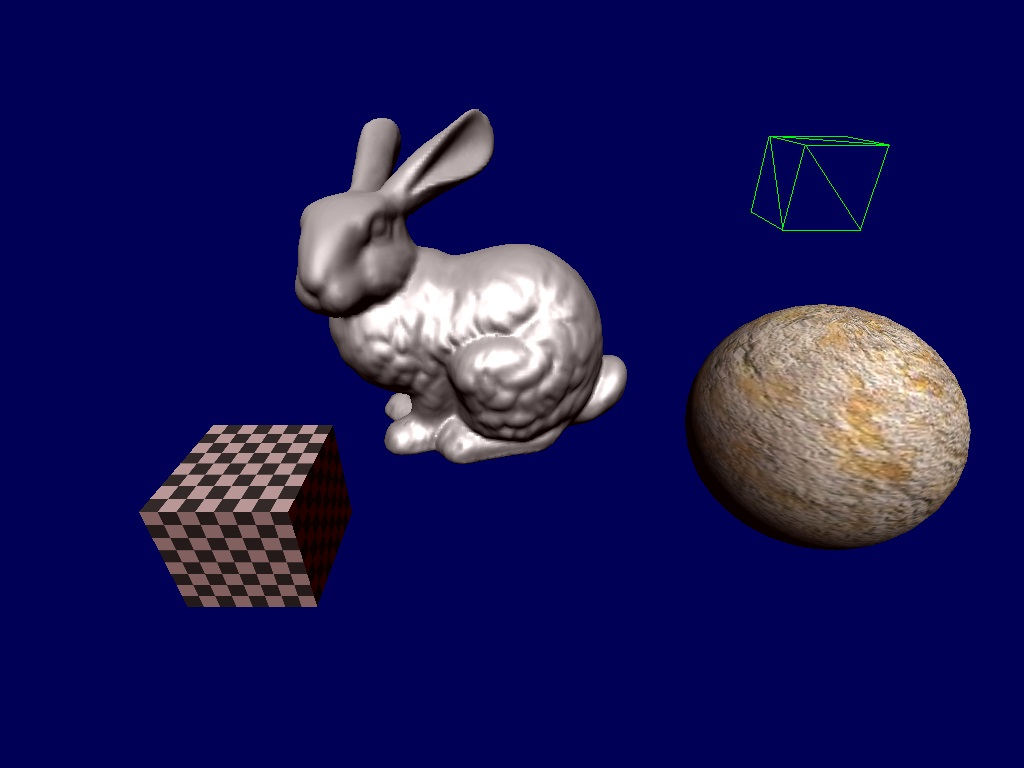
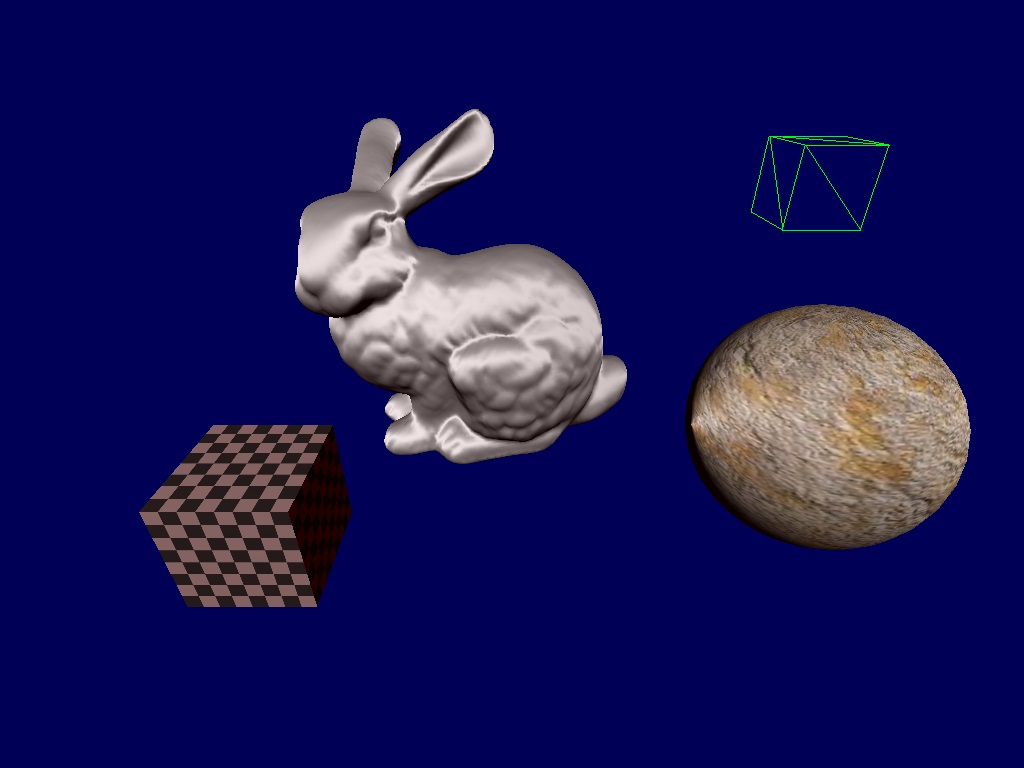
use point light instead of directional light

Changed region(s): [[0.2812, 0.125, 0.625, 0.5938], [0.6562, 0.375, 0.9375, 0.7188], [0.1562, 0.5312, 0.3125, 0.6875]]

diff --git a/cobra.cpp b/cobra.cpp
@@ -149,7 +149,7 @@ struct Vertex { Vector4 pos, uv, normal, viewPos, color; };
 struct Index { int pos[3], uv[3], normal[3]; };
 struct Texture { int width, height; float smax, tmax; std::vector<Vector4> data; };
 struct Material { float ka, kd, ks; Texture texture; };
-struct Light { Vector4 dir, ambientColor, diffuseColor, specularColor; };
+struct Light { Vector4 pos, viewPos, ambientColor, diffuseColor, specularColor; };
 
 void SaveBmp (std::vector<Vector4> &frameBuffer, int width, int height, std::string file) {
 #define INT2CHAR_BIT(num, bit) (unsigned char)(((num) >> (bit)) & 0xff)
@@ -258,14 +258,17 @@ struct Renderer {
 
     void SetCamera (const Vector4 &look, const Vector4 &at) { viewMat = CreateViewMatrix (look, at, { 0.0f, 1.0f, 0.0f }); }
 
-	void SetLight (const Vector4 &dir, const Vector4 &ambi, const Vector4 &diff, const Vector4 &spec) {
-		light.dir = dir.Normalize (); light.ambientColor = ambi; light.diffuseColor = diff;	light.specularColor = spec;
+	void SetLight (const Vector4 &pos, const Vector4 &ambi, const Vector4 &diff, const Vector4 &spec) {
+		light.pos = pos; light.ambientColor = ambi; light.diffuseColor = diff;	light.specularColor = spec;
 	} // we support one direction light right now.
 
 	void DrawModel (Model &model, bool drawTex = true, bool drawWireFrame = false) {
 		// again, using row-major order matrix, the calculation order is "pos * modelMat * viewMat * projMat".
 		// if you are using column-major order matrix, it will be "projMat * viewMat * modelMat * pos".
 		mvMat = model.worldMat * viewMat, mvpMat = mvMat * projMat, nmvMat = mvMat.InvertTranspose ();
+		
+		// we need this in pixel shader
+		light.viewPos = TransformPoint (light.pos, mvMat);
 
 		auto VertexShader = [this] (const Vector4 &pos, const Vector4 &normal, const Vector4 &uv, Vertex &outVertex) {
 			outVertex.pos = TransformPoint (pos, mvpMat);
@@ -307,9 +310,17 @@ struct Renderer {
 
 	void FillTriangle (Model &model, const Vertex &v0, const Vertex &v1, const Vertex &v2) {
 		auto PixelShader = [&model, this] (Vertex &v) -> Vector4 {
-			auto lambertian = std::max (0.0f, light.dir.Dot (v.normal));
+			auto ldir = (light.viewPos - v.viewPos).Normalize ();
+			auto vnormal = v.normal.Normalize ();
+			auto lambertian = std::max (0.0f, ldir.Dot (vnormal));
 			auto specular = 0.0f;
-			if (lambertian > 0) specular = std::pow (Saturate ((light.dir - v.viewPos).Normalize ().Dot (v.normal)), 16.0f);
+			if (lambertian > 0) {
+				auto viewDir = (-v.viewPos).Normalize ();
+				auto half = (ldir + viewDir).Normalize ();
+				auto angle = std::max (0.0f, half.Dot (vnormal));
+				specular = std::pow (angle, 16.0f);
+			}
+			//return (light.specularColor * specular * model.material.ks);
 			return (TextureLookup (model.material.texture, v.uv.x, v.uv.y) * (light.ambientColor * model.material.ka + light.diffuseColor * lambertian * model.material.kd) + light.specularColor * specular * model.material.ks);
 		}; // blinn-phong shading.
 
@@ -339,7 +350,7 @@ struct Renderer {
 	} // fill triangle with color
 
 	static bool TriangleCheck (const Vertex &v0, const Vertex &v1, const Vertex &v2, Vertex &v, Vector4 &w) {
-		w.x = EdgeFunc (v1.pos, v2.pos, v.pos) * v0.pos.w / w.w;
+		w.x = EdgeFunc (v1.pos, v2.pos, v.pos) * v0.pos.w / w.w; // pos.w == 1 / pos.z . we did that in Ndc2Screen()
 		w.y = EdgeFunc (v2.pos, v0.pos, v.pos) * v1.pos.w / w.w;
 		w.z = EdgeFunc (v0.pos, v1.pos, v.pos) * v2.pos.w / w.w;
 		return (w.x < 0 || w.y < 0 || w.z < 0);
@@ -350,7 +361,7 @@ struct Renderer {
 	} // note that the result of edge function could be represent as area as well.
 
     static inline void Interpolate (const Vertex &v0, const Vertex &v1, const Vertex &v2, Vertex &v,const Vector4 &w) {
-        v.pos.z = 1.0f / (w.x + w.y + w.z);
+        v.pos.z = 1.0f / (w.x + w.y + w.z); // keep in maind that in TriangleCheck() we already done the (w = w * 1/z) part
 		v.viewPos = (v0.viewPos * w.x + v1.viewPos * w.y + v2.viewPos * w.z) * v.pos.z;
 		v.normal = (v0.normal * w.x + v1.normal * w.y + v2.normal * w.z) * v.pos.z;
 		v.color = (v0.color * w.x + v1.color * w.y + v2.color * w.z) * v.pos.z;
@@ -440,12 +451,12 @@ int main () {
 	Renderer renderer (WIDTH, HEIGHT);
 	renderer.SetFrustum ((float)M_PI_2, (float)WIDTH / (float)HEIGHT, 0.1f, 1000.0f);
 	renderer.SetCamera ({ 0.0f, 3.0f, 5.0f }, { 0.0f, 0.0f, 0.0f });
-	renderer.SetLight ({ 0.0f, 1.0f, 2.0f }, { 0.5f, 0.0f, 0.0f, 0 }, { 1.0f, 1.0, 1.0, 0 }, { 1.0f, 1.0f, 1.0f, 0 });
+	renderer.SetLight ({ -10.0f, 30.0f, 30.0f }, { 0.5f, 0.0f, 0.0f, 0 }, { 0.8f, 0.8f, 0.8f, 0 }, { 0.5f, 0.5f, 0.5f, 0 });
 
 	// Model (filepath, position, material)
-	Model sphere ("res/sphere", { 2.5f, 0.5f, 1.5f }, { 0.1f, 1.0f, 1.2f });
+	Model sphere ("res/sphere", { 2.5f, 0.5f, 1.5f }, { 0.1f, 1.0f, 0.5f });
     renderer.DrawModel (sphere, true, false);
-	Model bunny ("res/bunny", { 0.0f, 0.0f, 0.0f }, { 0.1f, 0.8f, 0.6f });
+	Model bunny ("res/bunny", { 0.0f, 0.0f, 0.0f }, { 0.1f, 0.8f, 0.7f });
 	renderer.DrawModel (bunny, true, false);
 	Model cube ("res/cube", { -2.0f, 0.0f, 2.0f }, { 0.3f, 0.8f, 0.8f });
 	renderer.DrawModel (cube, true, false);

diff --git a/README.md b/README.md
@@ -8,7 +8,7 @@
 
 * 纹理模式渲染
 * 线框模式渲染
-* 简易光照
+* 单个点光源
 
 渲染效果如图
 ![screenshot.jpg](https://github.com/jintiao/cobra/raw/master/screenshot.jpg)
